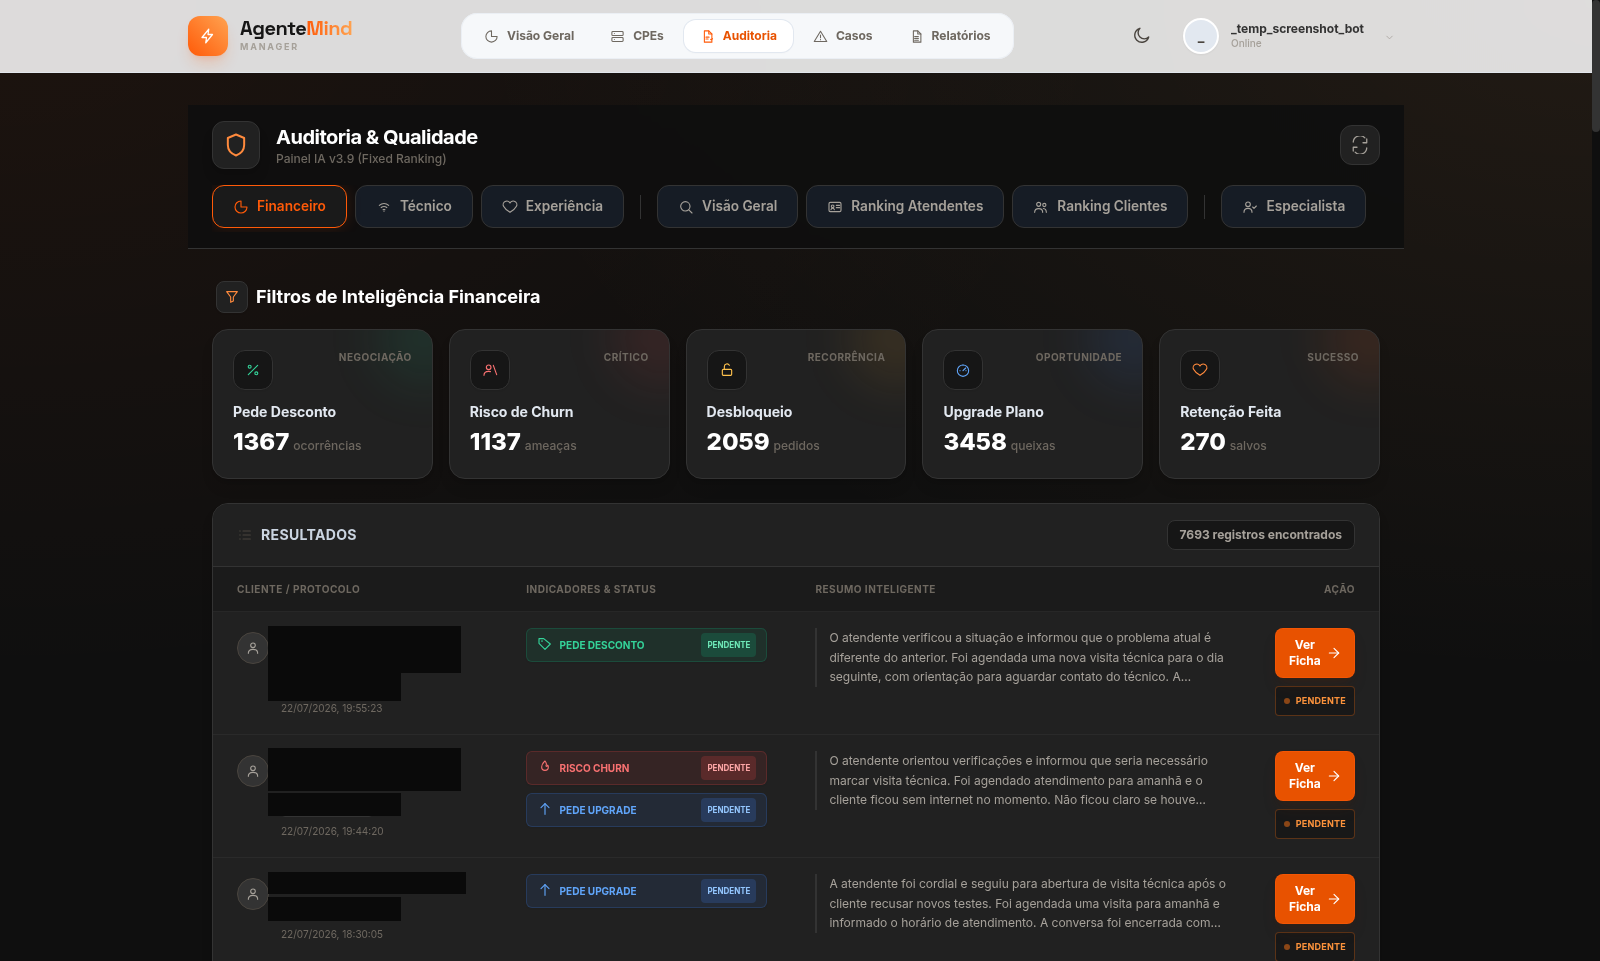
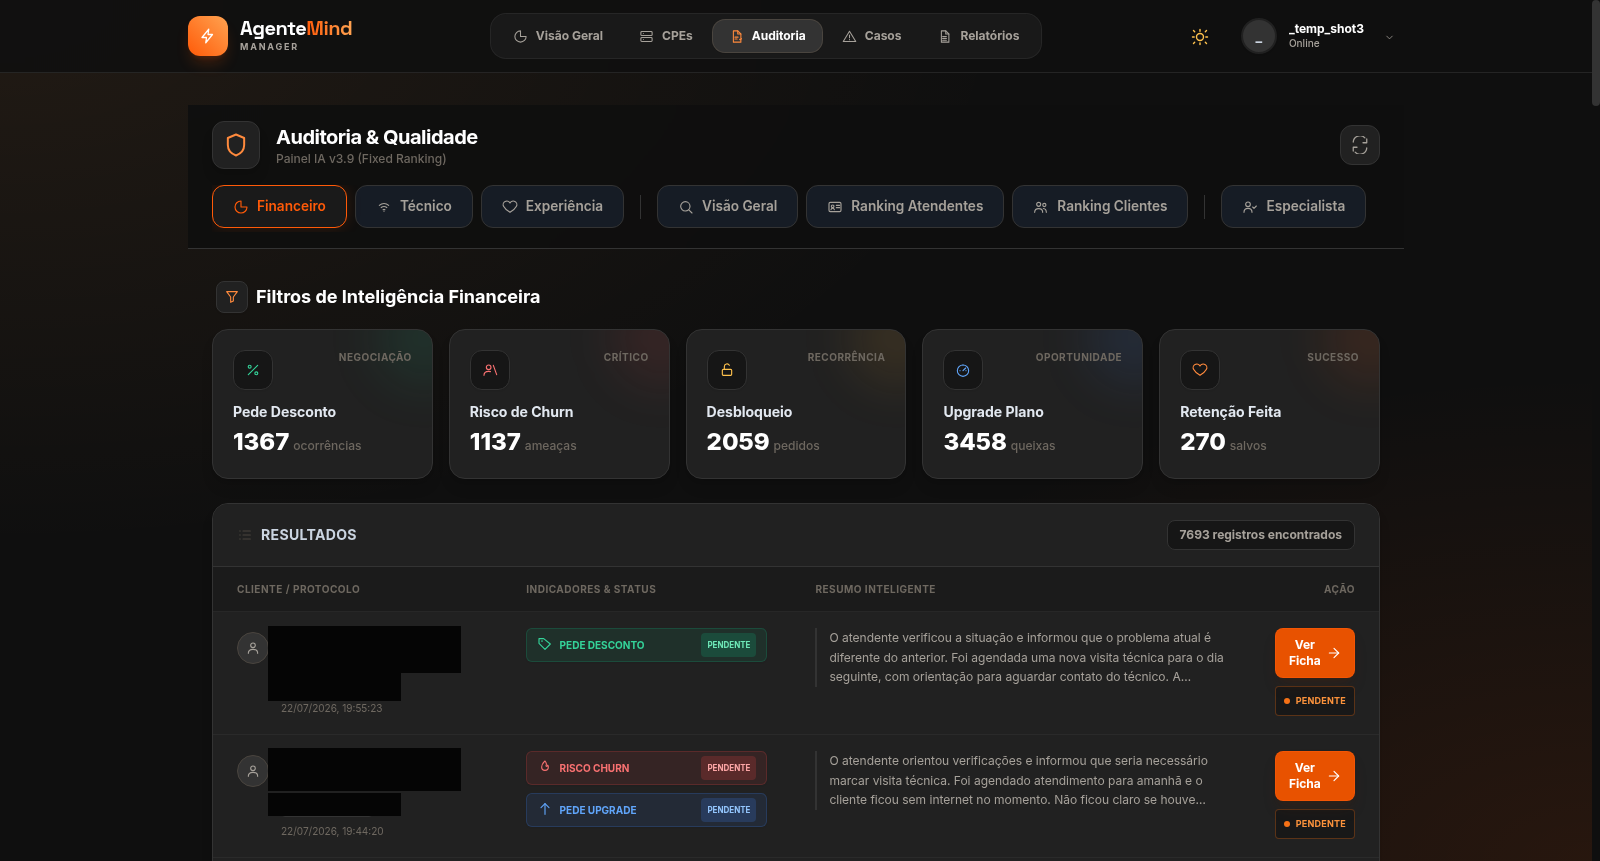
Adiciona abas internas censuradas (dispositivo, auditoria, casos) e corrige dark mode da auditoria

diff --git a/README.md b/README.md
@@ -28,6 +28,23 @@ Ao abrir um cliente específico, o operador vê: status da conexão, sinal ópti
 
 ![Ficha do dispositivo](screenshots/dispositivo.png)
 
+<details>
+<summary>Ver as outras abas da ficha do dispositivo (WAN/Internet, Rede Local, Wireless)</summary>
+
+**WAN/Internet** — credenciais PPPoE, status da conexão, VLAN, IPv6, consumo de banda:
+
+![Aba WAN/Internet](screenshots/dispositivo_wan.png)
+
+**Rede Local** — endereçamento IP, servidor DHCP, DNS:
+
+![Aba Rede Local](screenshots/dispositivo_lan.png)
+
+**Wireless** — rádios 2.4GHz/5GHz e até 8 redes Wi-Fi (SSIDs) configuráveis por dispositivo:
+
+![Aba Wireless](screenshots/dispositivo_wifi.png)
+
+</details>
+
 ### 3. Diagnóstico remoto
 Ferramentas de ping/traceroute/teste de velocidade disparadas a partir do próprio roteador do cliente (não do servidor), pra isolar se o problema é da rede do cliente, do link até a central, ou de algo externo.
 
@@ -48,10 +65,52 @@ Toda interação de suporte (chat/humano) é registrada e analisada por IA, sina
 
 ![Auditoria de atendimento](screenshots/auditoria.png)
 
+<details>
+<summary>Ver as outras abas da Auditoria (Técnico, Experiência, Visão Geral, Ranking de Atendentes, Ranking de Clientes, Especialista)</summary>
+
+**Técnico** — diagnóstico de problemas técnicos recorrentes (qualidade, quedas, lentidão):
+
+![Aba Técnico](screenshots/auditoria_tecnico.png)
+
+**Experiência** — satisfação do cliente (CX): esforço, NPS/CSAT, reincidência, tempo de fila:
+
+![Aba Experiência](screenshots/auditoria_experiencia.png)
+
+**Visão Geral** — listagem consolidada de todos os atendimentos, com filtro por atendente e busca por nome/CPF/protocolo:
+
+![Aba Visão Geral](screenshots/auditoria_visaogeral.png)
+
+**Ranking de Atendentes** — produtividade e indicadores de risco (churn, desconto, irritação) por colaborador:
+
+![Aba Ranking de Atendentes](screenshots/auditoria_ranking_atendentes.png)
+
+**Ranking de Clientes** — clientes que mais entram em contato no período (top chamadores recorrentes):
+
+![Aba Ranking de Clientes](screenshots/auditoria_ranking_clientes.png)
+
+**Especialista** — busca dirigida de um cliente específico por nome/telefone com filtros de setor e nível:
+
+![Aba Especialista](screenshots/auditoria_especialista.png)
+
+</details>
+
 ### 7. Casos de risco
 A parte mais avançada do sistema: cruza sinais de atendimento (avaliação ruim, cliente irritado) com histórico de chamados de suporte/financeiro pra priorizar quem precisa de atenção — de triagem ampla até casos formais abertos automaticamente quando os critérios batem juntos, com resumo gerado por IA.
 
 ![Casos de risco](screenshots/casos.png)
+
+<details>
+<summary>Ver as outras abas de Casos (Casos IA, Painel de Churn)</summary>
+
+**Casos (IA)** — casos formais abertos automaticamente, com resumo e diagnóstico gerado por IA, status de validação e reincidência:
+
+![Aba Casos IA](screenshots/casos_ia.png)
+
+**Painel de Churn** — métricas de eficácia do próprio motor de detecção (recall, precisão, lead time de antecedência) e lista de cancelamentos recentes, comparando quem tinha caso aberto antes de cancelar:
+
+![Aba Painel de Churn](screenshots/casos_churn.png)
+
+</details>
 
 ### 8. Teste de conexão do cliente
 Link enviado ao cliente final (sem necessidade de login) que roda um teste de velocidade completo no navegador dele — não no roteador — pra medir a experiência real de internet do lado de quem usa.
